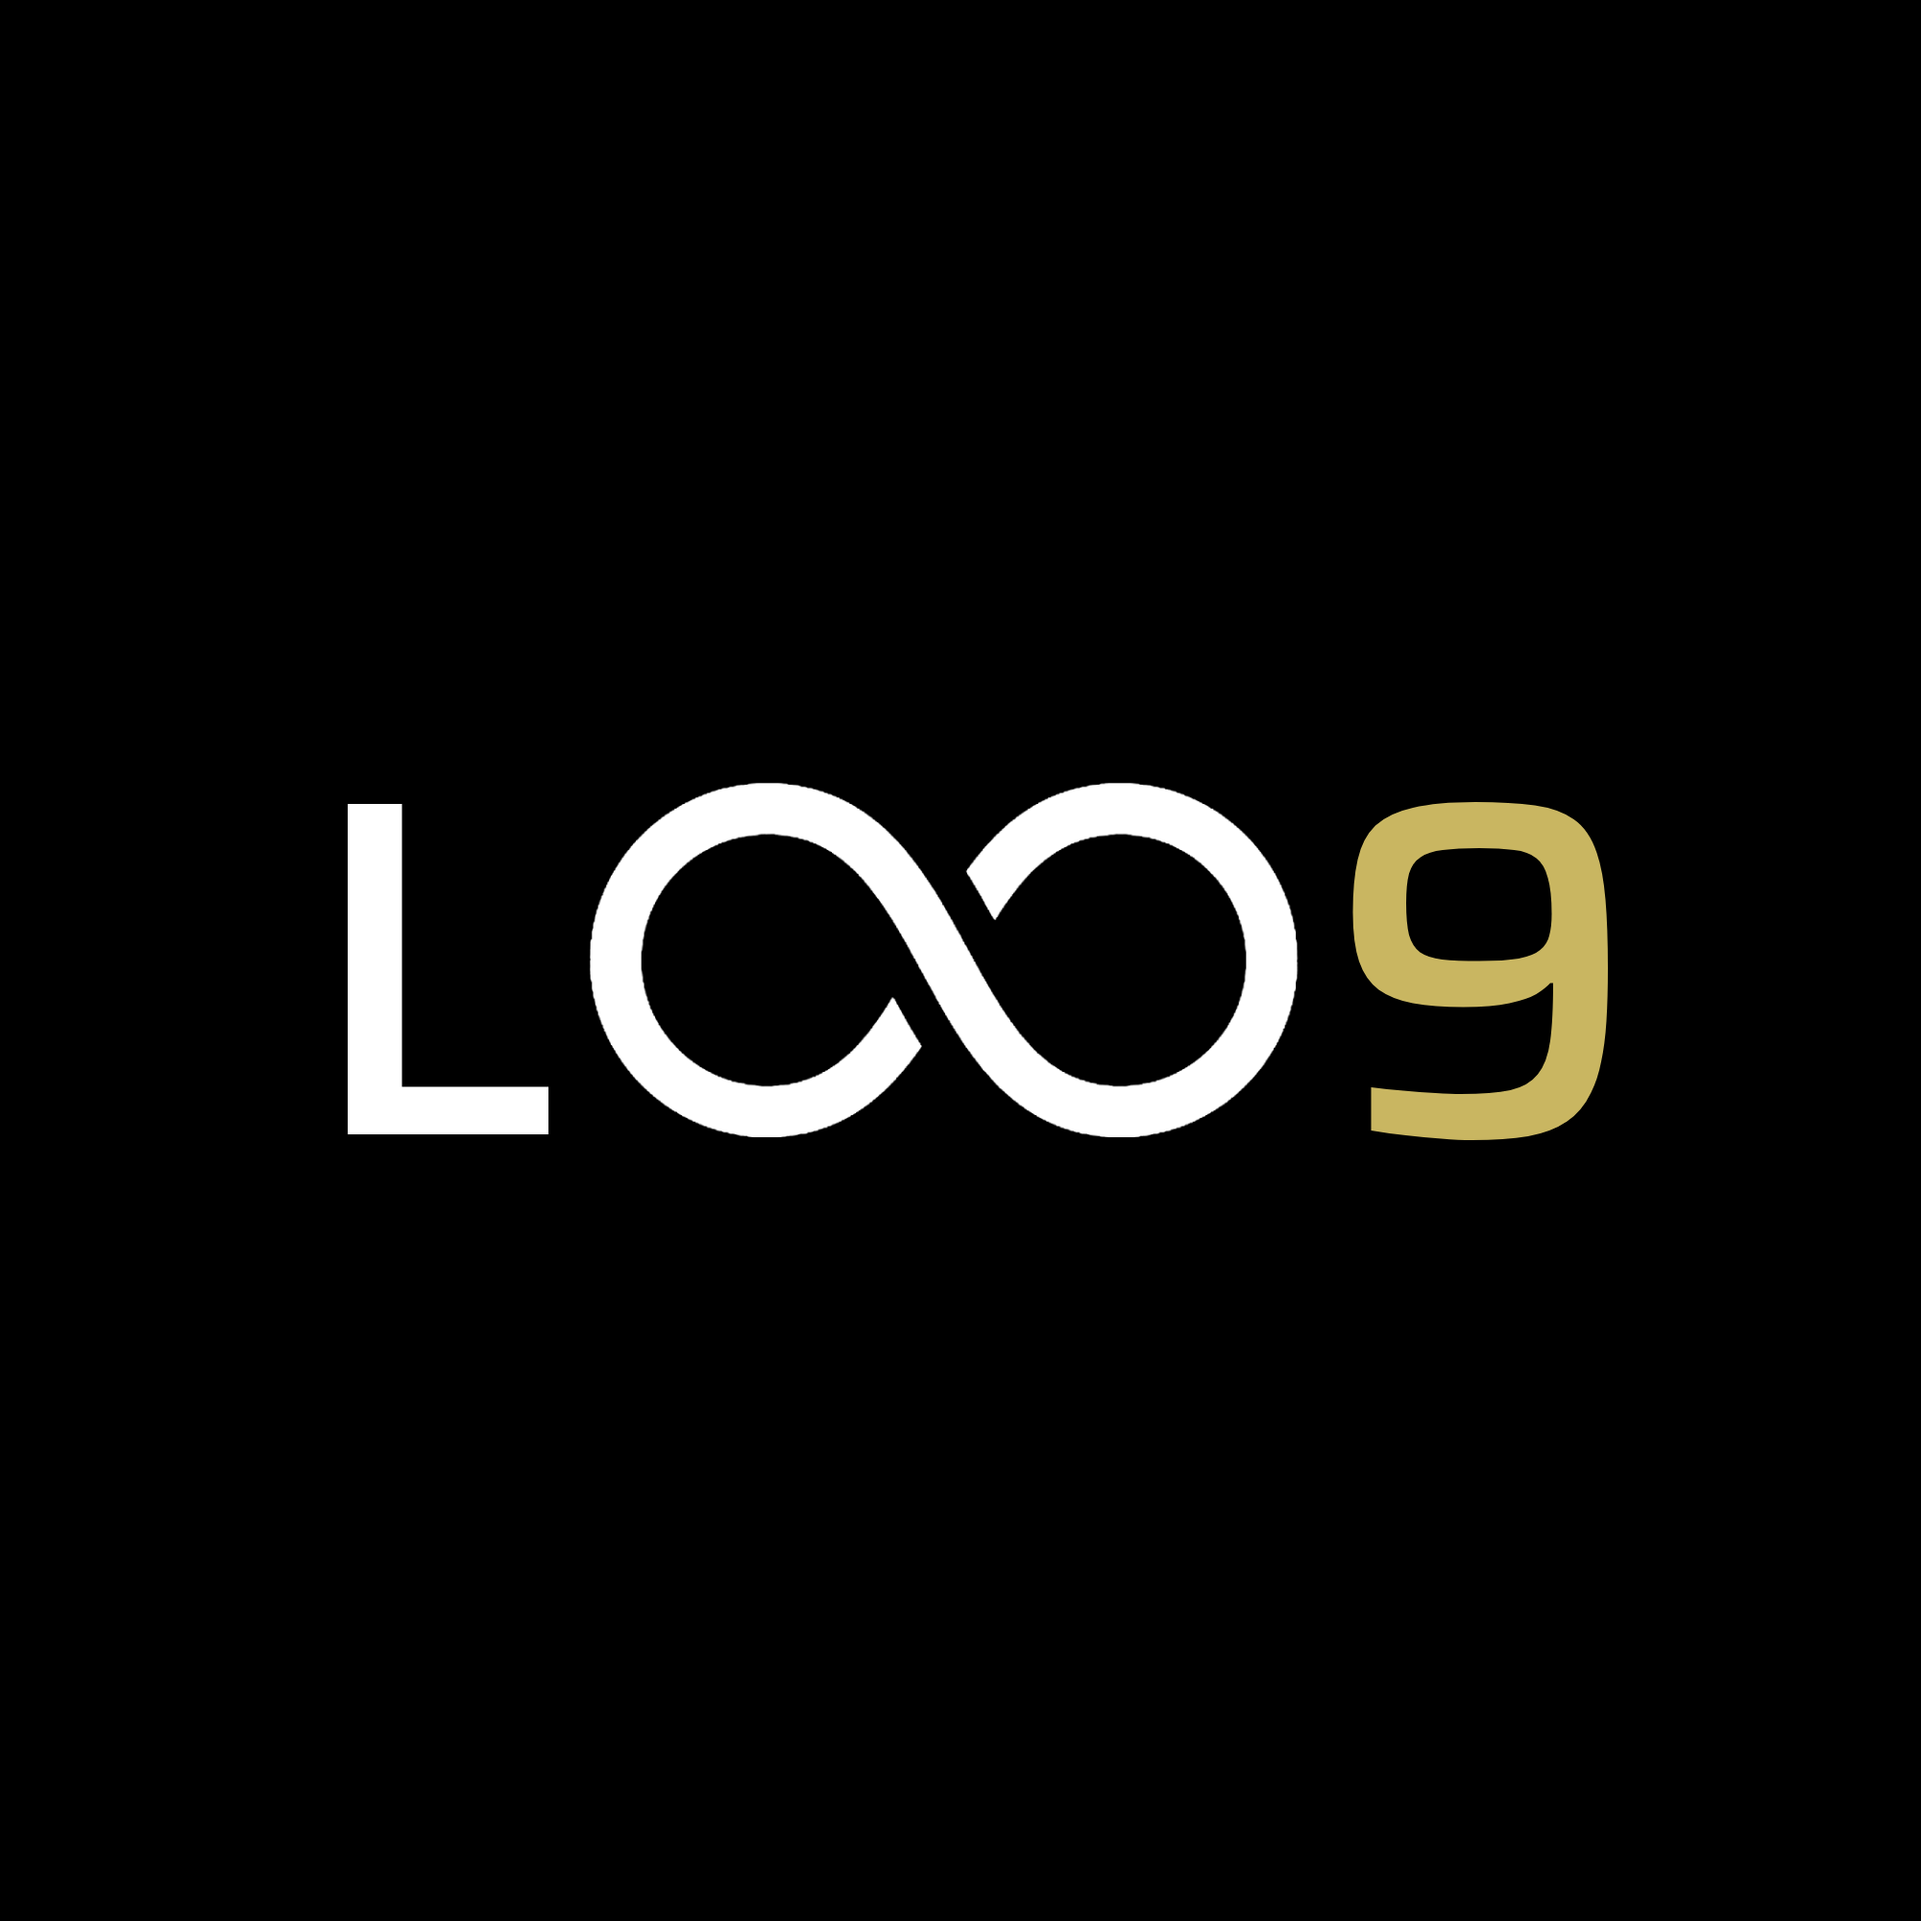
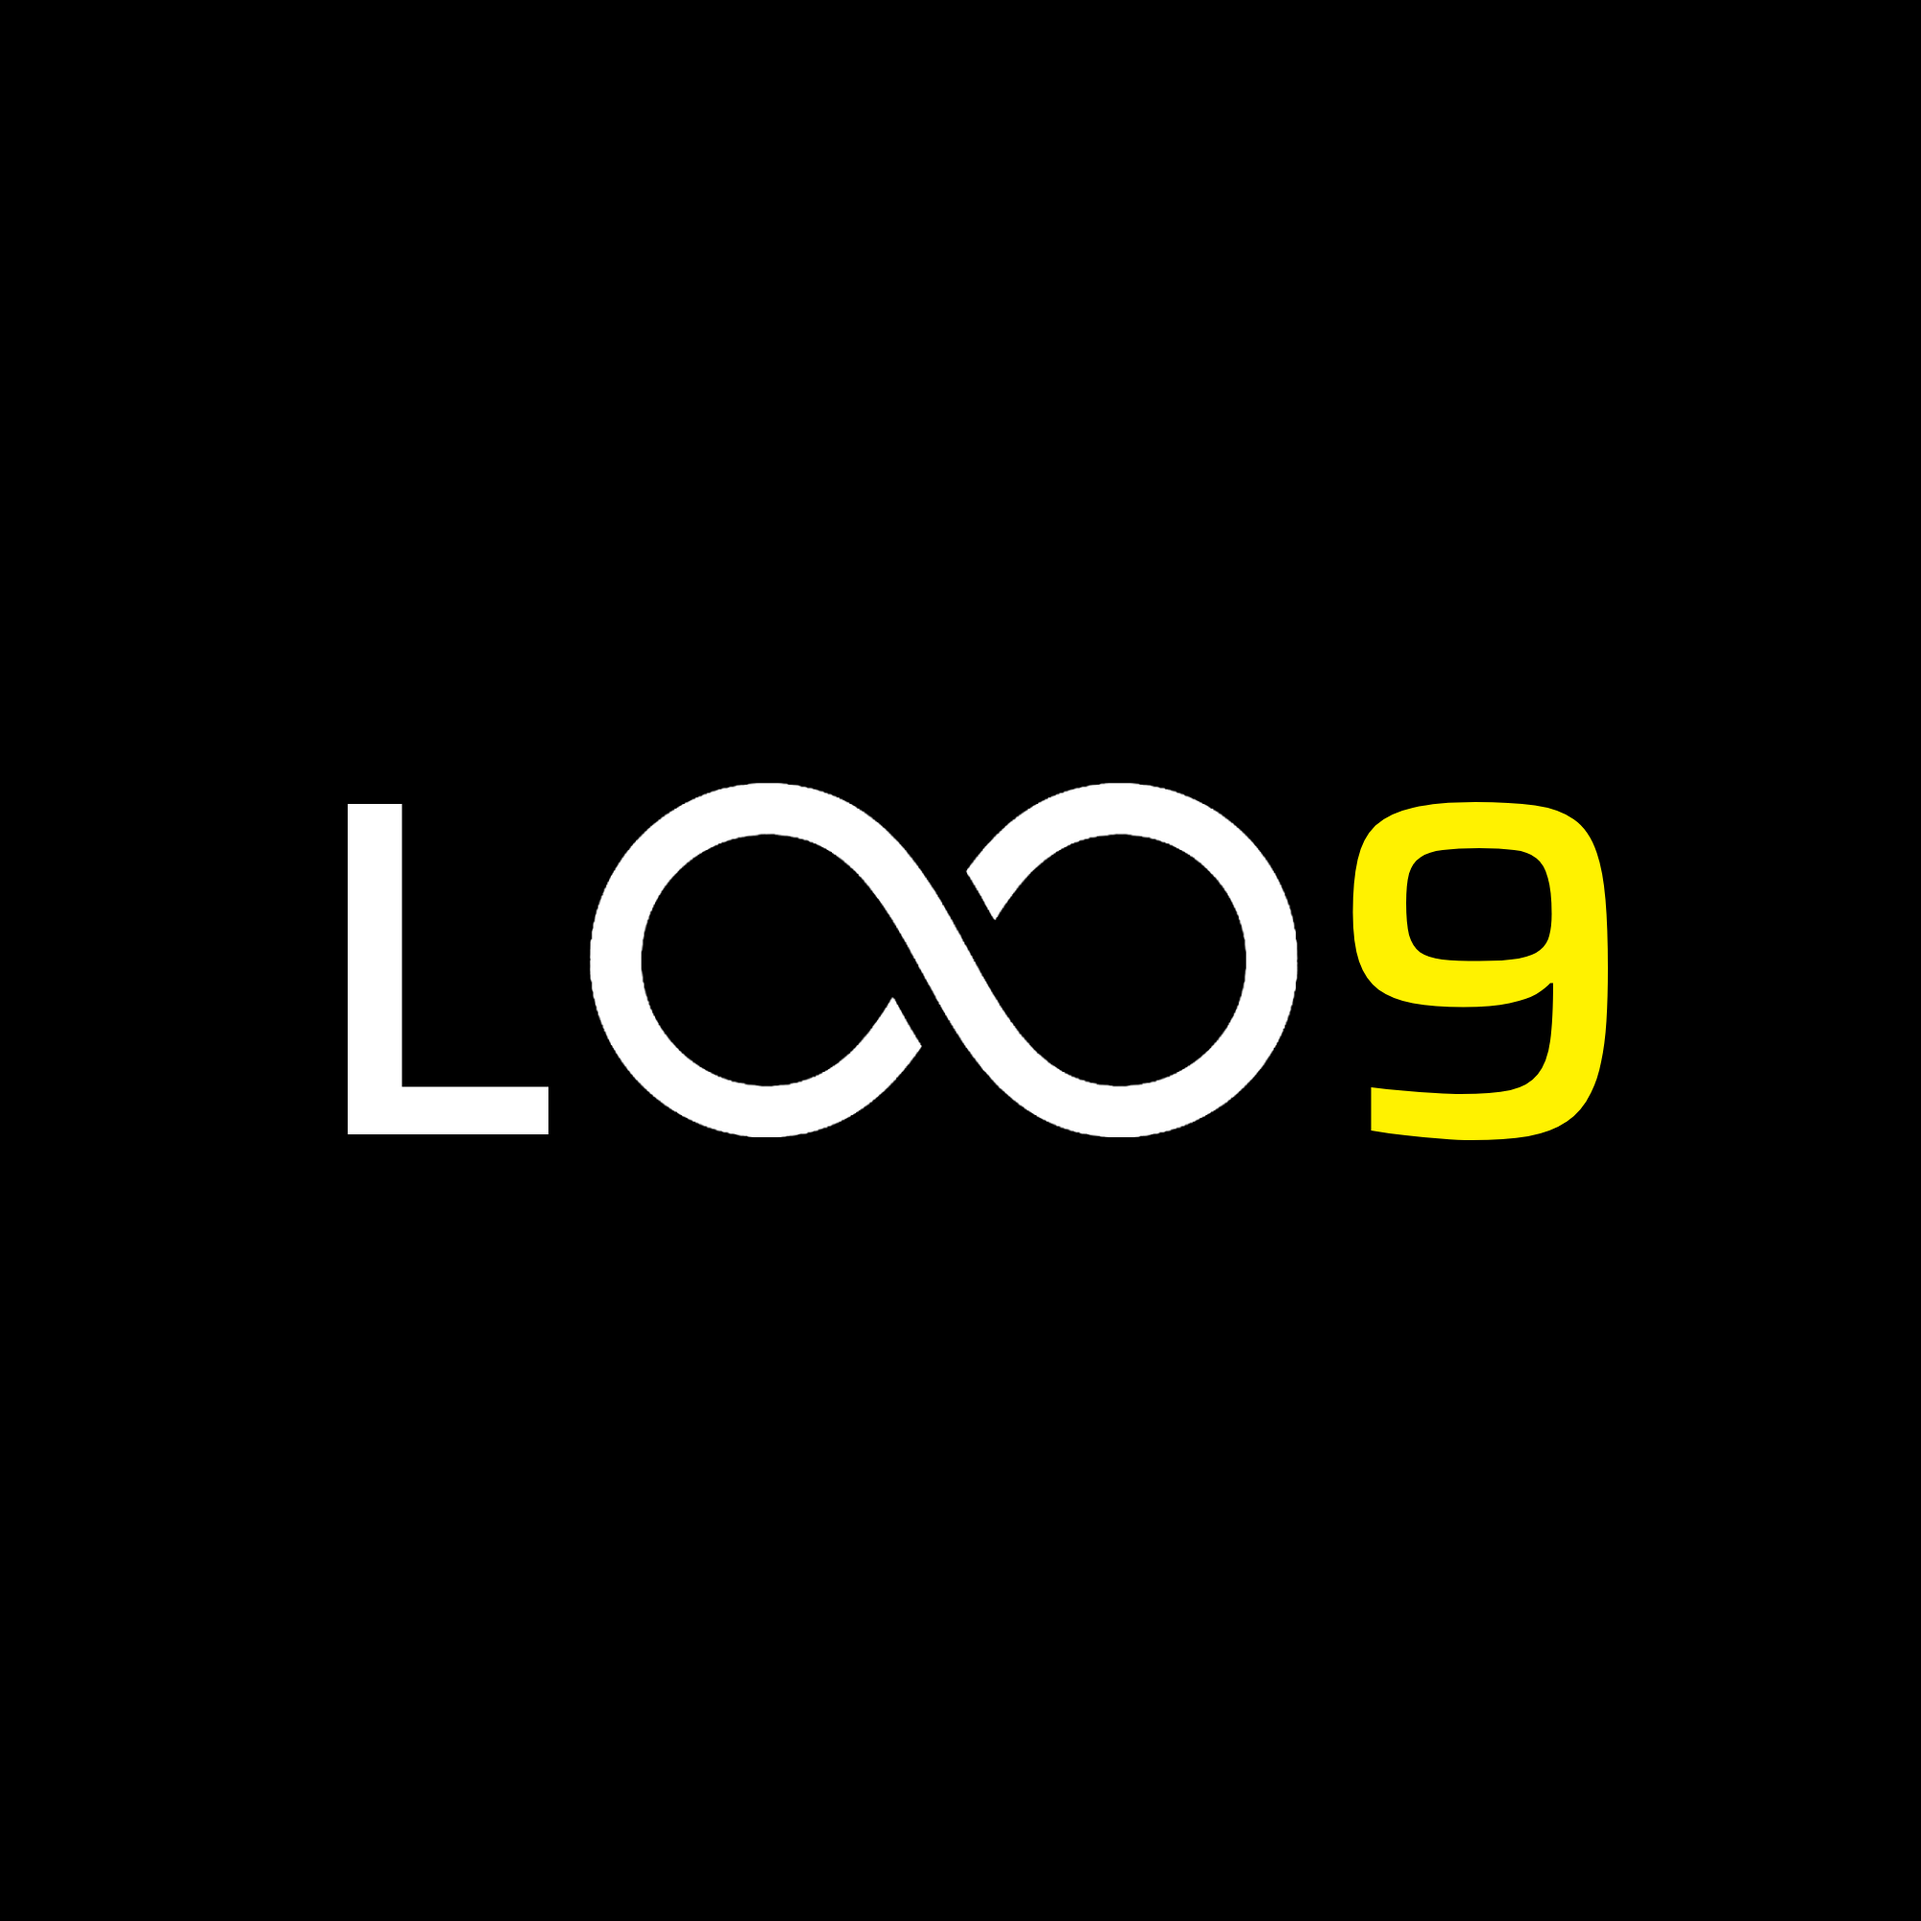
Update

Changed region(s): [[0.682, 0.403, 0.837, 0.62]]

diff --git a/styles/global.css b/styles/global.css
@@ -3,7 +3,7 @@
 @import url("https://cdn.jsdelivr.net/npm/bootstrap-icons@1.11.3/font/bootstrap-icons.min.css");
 
 :root {
-    --theme: #c9b661;
+    --theme: #fff200;
     --primary: #fff;
     --secondary: #bababa;
     --tertiary: #666;
